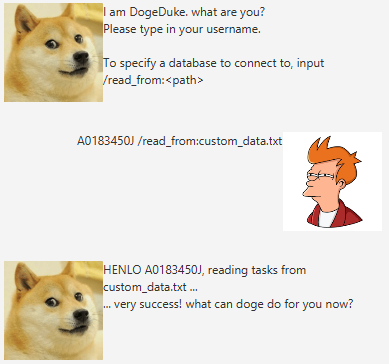
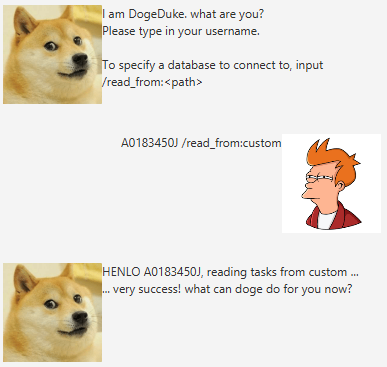
A-UserGuide:  Amended Readme and Added Jar

diff --git a/src/main/java/DukeBody/DataBase.java b/src/main/java/DukeBody/DataBase.java
@@ -21,10 +21,10 @@ public class DataBase {
         }
     }
 
-    Path dirpath;
+    Path dirPath;
 
     public DataBase (String path) {
-        dirpath = Paths.get(path);
+        dirPath = Paths.get(path);
     }
 
     // default constructor set child directory in current working directory as path.
@@ -45,7 +45,7 @@ public class DataBase {
         TaskList tasks = new TaskList();
 
         try {
-            File userdata = new File(dirpath.toAbsolutePath() + File.separator
+            File userdata = new File(dirPath.toAbsolutePath() + File.separator
                     + username + ".txt");
 
             Scanner scanner = new Scanner(userdata);
@@ -72,12 +72,12 @@ public class DataBase {
      * @throws IOException
      */
     public void updateTasks (String username, TaskList tasks) throws IOException {
-        if (!Files.exists(dirpath)) {
-            Files.createDirectories(dirpath);
+        if (!Files.exists(dirPath)) {
+            Files.createDirectories(dirPath);
         }
 
-        assert Files.exists(dirpath): "database directory not found on update.";
-        FileWriter writer = new FileWriter(dirpath.toAbsolutePath()
+        assert Files.exists(dirPath): "database directory not found on update.";
+        FileWriter writer = new FileWriter(dirPath.toAbsolutePath()
                 + File.separator + username + ".txt");
 
         for (Task task: tasks) {
@@ -94,6 +94,6 @@ public class DataBase {
      * @throws java.nio.file.InvalidPathException
      */
     public void changePath (String path) throws java.nio.file.InvalidPathException {
-        dirpath = Paths.get(path);
+        dirPath = Paths.get(path);
     }
 }

diff --git a/docs/README.md b/docs/README.md
@@ -4,17 +4,17 @@ User guide for the use of task management chatbot dogeDuke.
 ## Features 
 
 ### LogIn
-#### Command: `USERNAME [/read_from:TXTFILE_PATH]`
+#### Command: `USERNAME [/read_from:DIRECTORY_PATH]`
 - Sets up the username for dogeDuke to address the user and reads any stored data from 
-  TXTFILE_PATH.
-- Where TXTFILE_PATH is invalid or unspecified, defaults to userdata/USERNAME.txt in the 
+  USERNAME.txt in the DIRECTORY_PATH.
+- Where DIRECTORY_PATH is invalid or unspecified, defaults to userdata in the 
   current working directory.
 - DogeDuke greets the user and prompts for subsequent actions post-set up.
 
 #### Example Usage:
-`A0183450J /read_from:custom_data.txt`
+`A0183450J /read_from:custom`
 #### Expected Outcome:
-- Sets username as A0183450J and reads the stored data from custom_data.txt file.
+- Sets username as A0183450J and reads the stored data from custom/A0183450J.txt file.
 - DogeDuke greets "HENLO A0183450J ..."
 
 ### Listing All Tasks
@@ -100,11 +100,17 @@ User guide for the use of task management chatbot dogeDuke.
 #### Expected Outcome:
 - Adds a deadline task with the description "IP Submission", in an undone state,
   to be done by 19 Feb 2021 11:59pm and creation datetime at current datetime.
+
+### Exiting the App
+#### Command: `bye`
+- Update tasks to the database and exits the app.
+- Where DIRECTORY_PATH/USERNAME.txt as per the LogIn setup does not exist, DogeDuke creates
+  the directory and file.
   
 ## Example Use of DogeDuke
 - App start up and setting up of user
 
-![startup.png](startup.png)
+![startup.png](startup.png)  
 
 - Adding an event task
 
